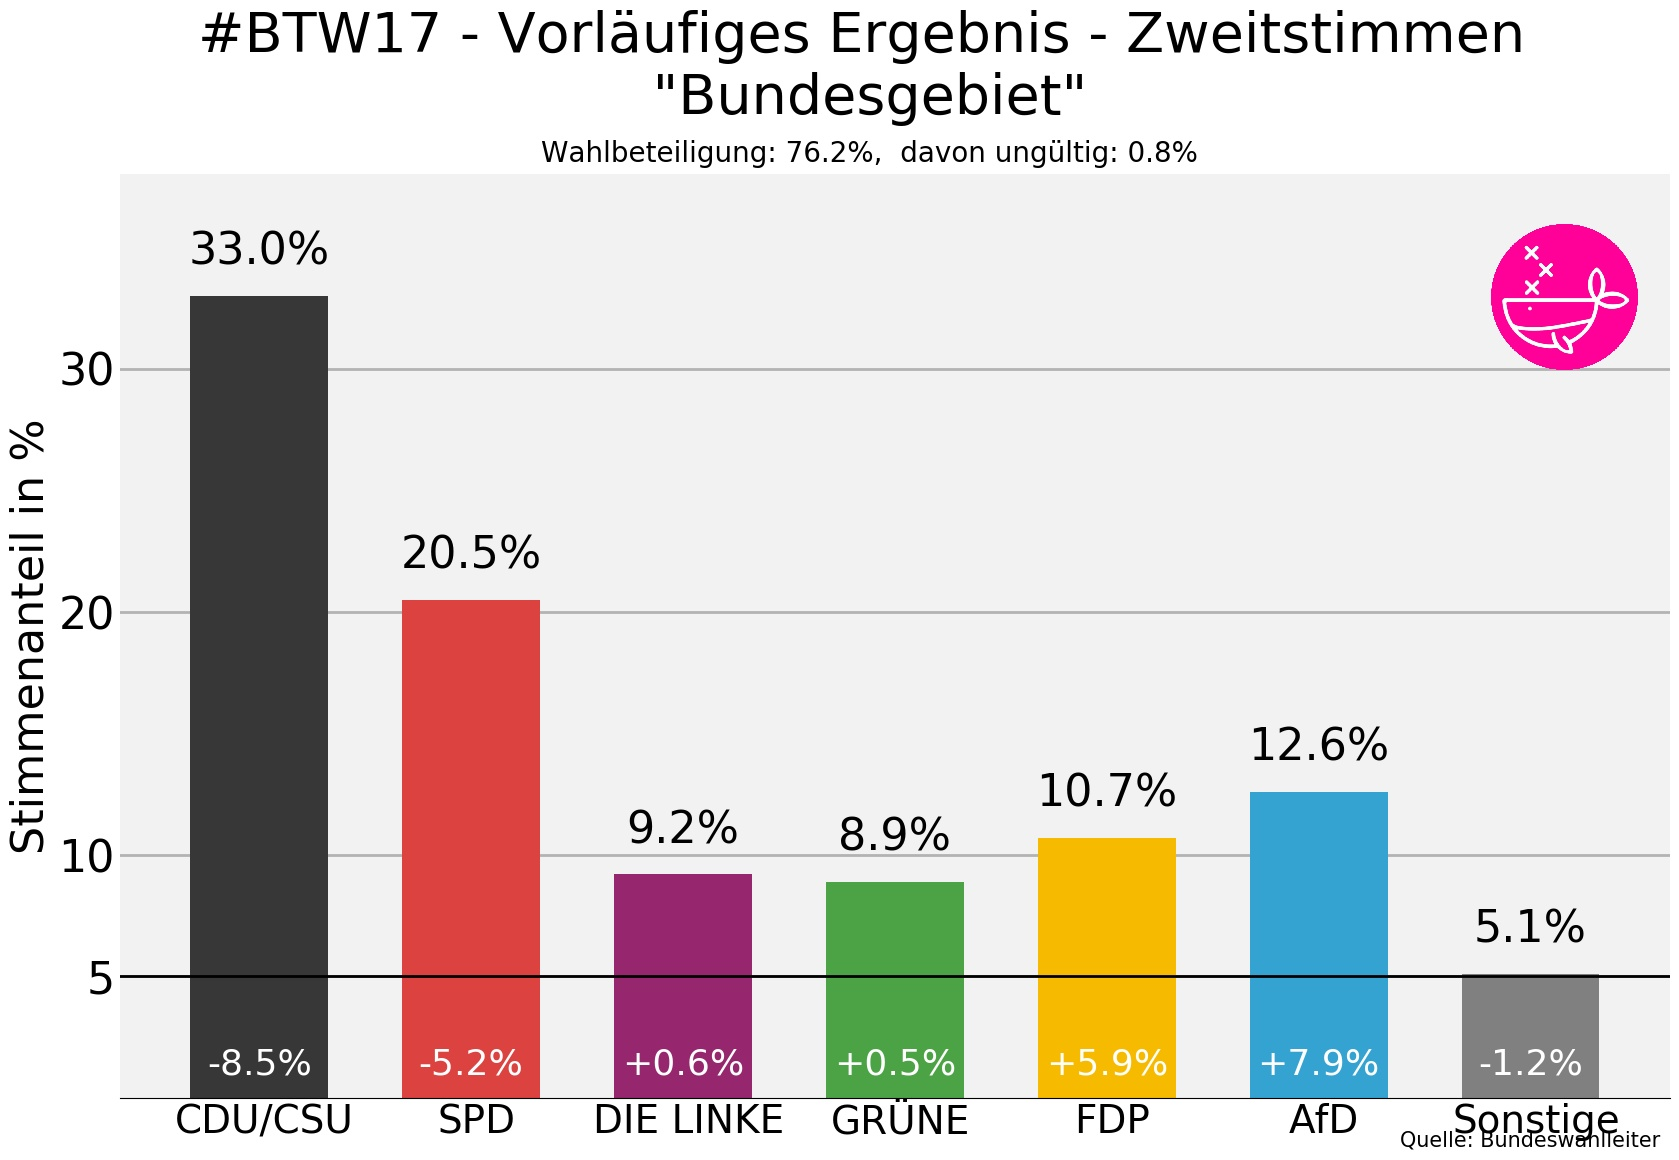
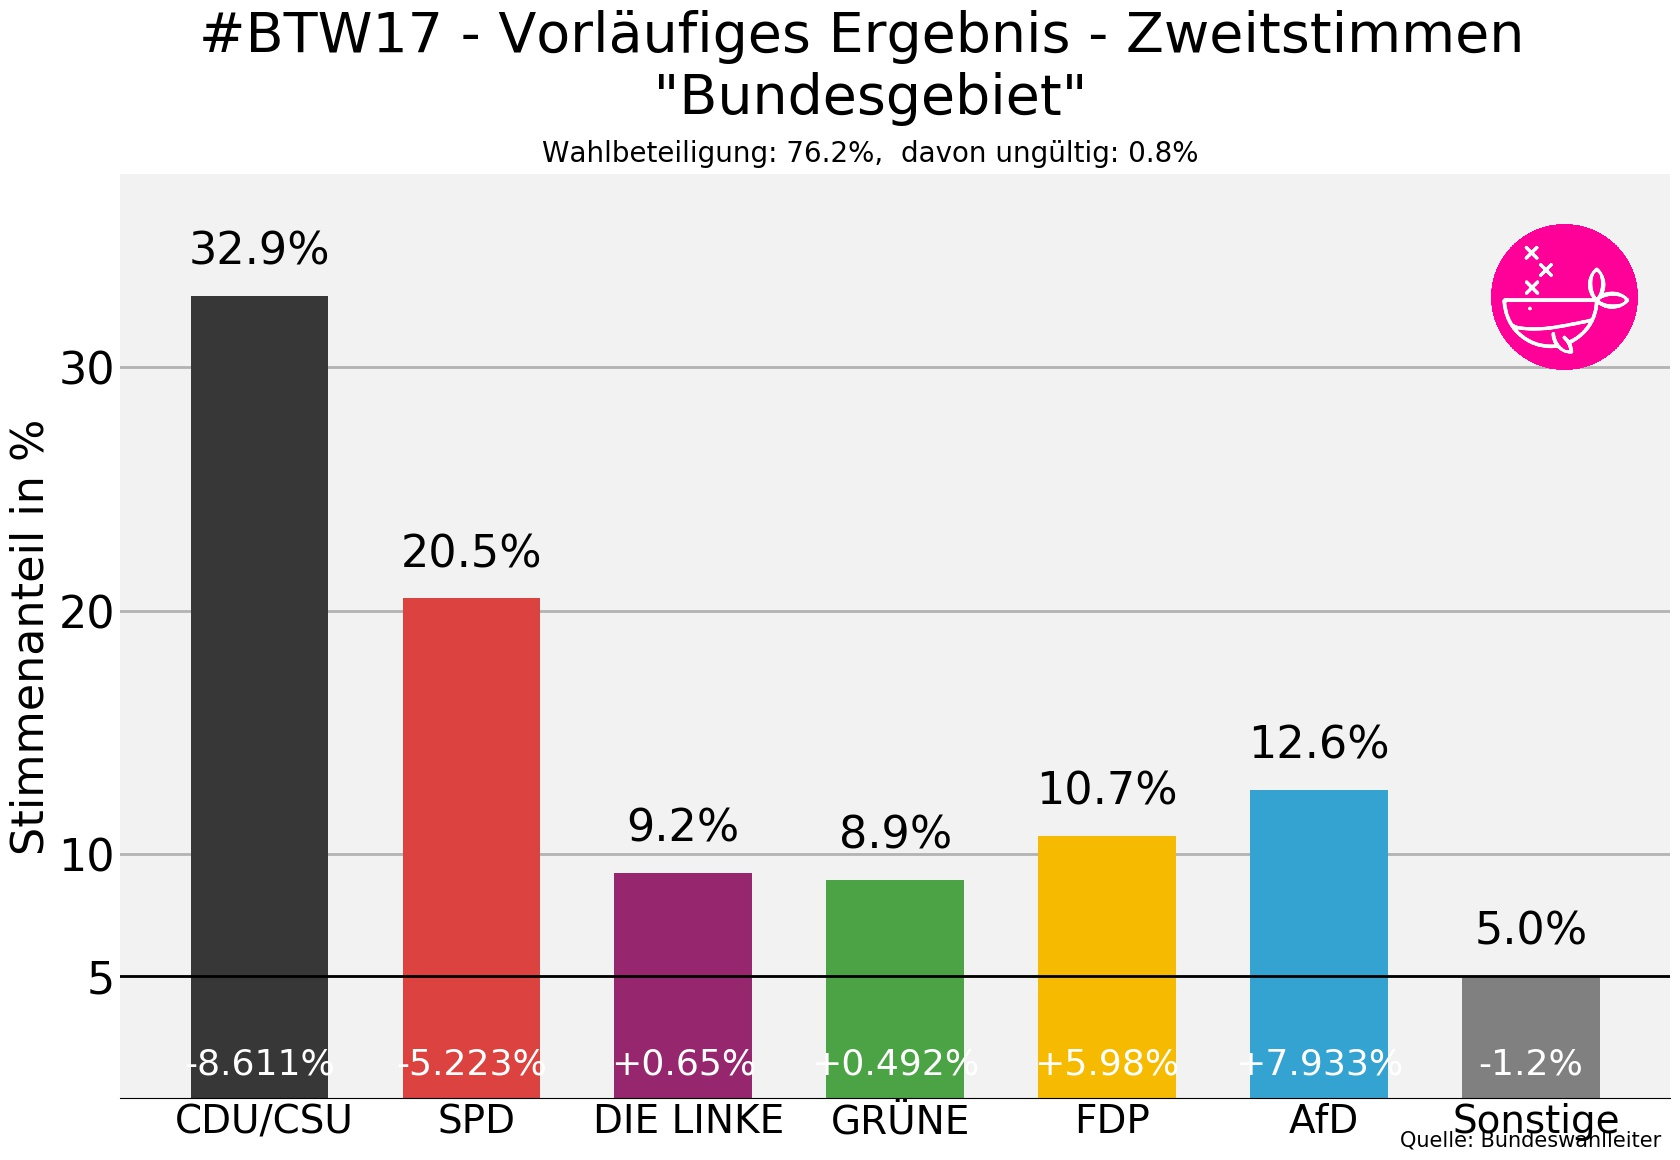
32.9

diff --git a/wahltraud/bot/data/results/results17.py b/wahltraud/bot/data/results/results17.py
@@ -209,8 +209,8 @@ def plot_vote(wk_nummer,extention):
     # create base table
     for party in top7:
         if data[election17][party] is not None:
-            values.append(round(data[election17][party] * 100, 1))
-            values13.append(round(data[election13][party] * 100, 1))
+            values.append(round(data[election17][party] * 100, 3))
+            values13.append(round(data[election13][party] * 100, 3))
             key = party
             label.append(key)
             try:
@@ -257,7 +257,7 @@ def plot_vote(wk_nummer,extention):
     plt.ylabel('Stimmenanteil in %', fontsize=32)
     # bar plots + annotation
     for go in index:
-        text = str(values[go]) + '%'
+        text = str(round(values[go],1)) + '%'
         ax.annotate(text, xy=(index[go], max(values[go] + 1.3, 5.5)), fontsize=32, ha='center')
         # for go in index:
         di = diff[go]
@@ -340,18 +340,18 @@ def create_results(result_file, extention):
 
 #bundeswahlleiter data
 kerg = 'kerg.csv'
-result_file = 'results_17.json'
+result_file = 'results_17v2.json'
 
 # make nice function from kerg  : extention is for the given header names
 extention = make_kerg_to_df(kerg)
 
-create_results(result_file, extention)
+#create_results(result_file, extention)
 
 # create plot for all 999 votes
 #for district in range(1,300):
 #    plot_vote(district,extention)
 
 # create plot for Bundesgebiet
-#plot_vote(999,extention)
+plot_vote(999,extention)
 
 #create_results(result_file, extention)
